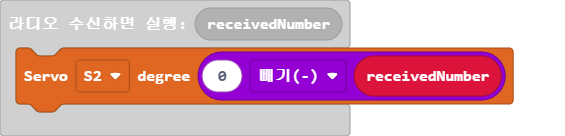
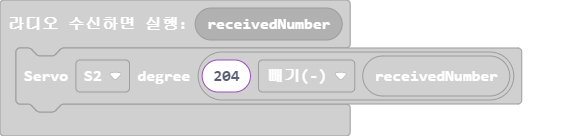
Update main.blocks, main.ts

diff --git a/main.ts b/main.ts
@@ -1,5 +1,5 @@
 radio.onReceivedNumber(function (receivedNumber) {
-    motor.servo(motor.Servos.S2, 0 - receivedNumber)
+    motor.servo(motor.Servos.S2, 204 - receivedNumber)
 })
 radio.onReceivedValue(function (name, value) {
     if (name == "가변저항1") {
